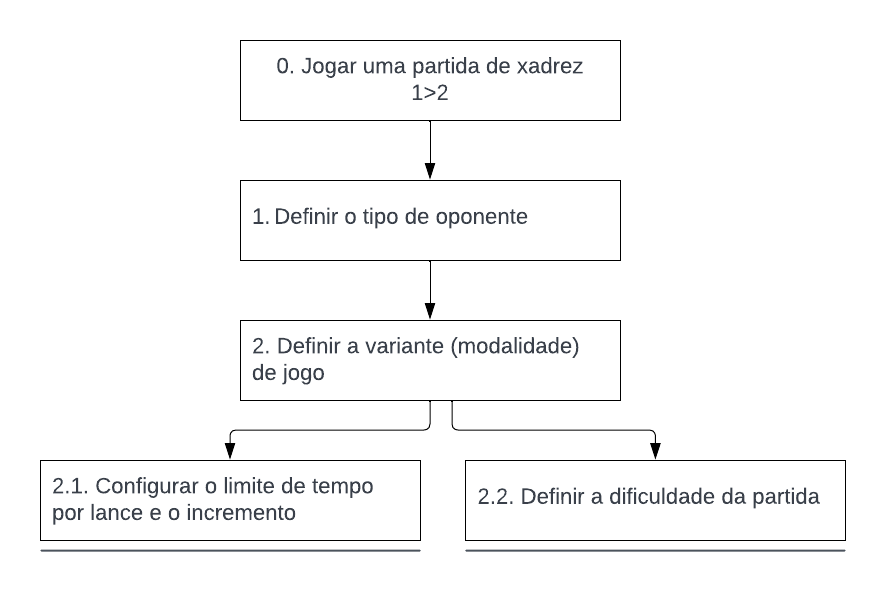
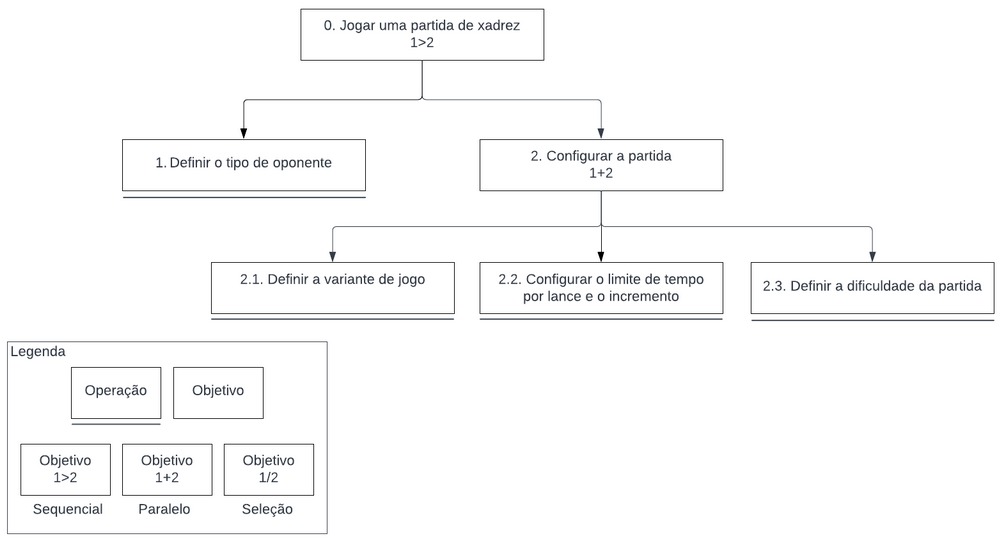
feat: #24 análise de tarefas

diff --git a/docs/analise_requisitos/analise_tarefas.md b/docs/analise_requisitos/analise_tarefas.md
@@ -8,7 +8,7 @@ Essa atividade pode ser realizada durante qualquer uma das três etapas principa
 
 A análise parte de um conjunto de objetivos, em termos psicológicos, das pessoas. Para cada objetivo elabora-se uma lista das ações realizadas, por meio do sistema, para alcançar esse objetivo. De acordo com os estudos de Diaper, a análise de tarefas é capaz de fornecer apenas uma simulação das verdadeiras tarefas de interesse, já que existe uma infinidade de tarefas que podem ser realizadas por diferentes pessoas e apenas uma pequena porção do trabalho pode ser observada. Um insumo importante da análise de tarefas é a observação do **desempenho**, e seus resultados devem ser comparados com os que foram obtidos por meio de entrevistas, questionários e documentação.
 
-Com o intuito de explorar diferentes técnicas, foram avaliadas as tarefas de "jogar uma partida de xadrez", "resolver um quebra cabeça" e "aprender a jogar xadrez" por meio de três metodologias diferentes, a saber: Análise Hierárquica de Tarefas (HTA), GOMS (Goals, Operators, Methods and Selection Rules) e ConcurTaskTrees (CTT).
+Com o intuito de explorar diferentes técnicas, foram avaliadas as tarefas de "jogar uma partida de xadrez" e "aprender a jogar xadrez" por meio de duas metodologias diferentes, a saber: Análise Hierárquica de Tarefas (HTA) e GOMS (Goals, Operators, Methods and Selection Rules).
 
 ## Análise Hierárquica de Tarefas (HTA)
 
@@ -41,22 +41,40 @@ A tarefa "jogar uma partida de xadrez" é a principal tarefa do sistema, já que
 
 | Objetivos/Operações | Problemas e recomendações |
 | - | - |
-| 0. Jogar uma partida de xadrez 1 > 2 | **input**: acesso ao menu "iniciar partida" na tela inicial; <br/> **feedback**: tela de jogo, com oponente e informações sobre a partida; <br/> **plano**: definir o tipo de oponente (computador, amigo ou aleatório) e depois configurar a partida; <br/> **recomendação**: permitir que o usuário inicie um jogo a partir da tela inicial. |
+| 0. Jogar uma partida de xadrez <br/>(1 > 2) | **input**: acesso ao menu "iniciar partida" na tela inicial; <br/> **feedback**: tela de jogo, com oponente e informações sobre a partida; <br/> **plano**: definir o tipo de oponente (computador, amigo ou aleatório) e depois configurar a partida; <br/> **recomendação**: permitir que o usuário inicie um jogo a partir da tela inicial. |
 | 1. Definir o tipo de oponente | |
-| 2. Configurar a partida 1+2 | **plano**: definir a variante de xadrez, os tempos e incrementos para cada lance e o nível de dificuldade (em caso de partida contra o computador) | |
-| 2.1 Definir a variante de xadrez 1+2 | |
+| 2. Configurar a partida (1+2)  | **plano**: definir a variante de xadrez, os tempos e incrementos para cada lance e o nível de dificuldade (em caso de partida contra o computador) | |
+| 2.1 Definir a variante de xadrez  | |
 | 2.2 Definir o tempo e incremento para cada lance | |
-| 2.3 Definir o nível de dificuldade 1/2 | **plano**: informar nível de dificuldade apenas para partidas contra o computador |
+| 2.3 Definir o nível de dificuldade   |  |
+<div style="text-align: center">
+<p> Tabela 1: Análise Hierárquica de Tarefas para o objetivo "jogar uma partida de xadrez" <br/>(Fonte: autor, 2022).</p>
+</div>
 
 ![Diagrama da Análise Hierárquica de Tarefas para o objetivo "jogar uma partida de xadrez"](imgs/hta-jogar-partida.png)
 
 <div style="text-align: center">
-<p> Figura 2: Diagrama da Análise Hierárquica de Tarefas para o objetivo "jogar uma partida de xadrez" (Fonte: autor, 2022).</p>
+<p> Figura 2: Diagrama da Análise Hierárquica de Tarefas para o objetivo "jogar uma partida de xadrez" <br/> (Fonte: autor, 2022).</p>
 </div>
 
-<!-- ## GOMS -->
+## Objetivos, Operadores, Métodos e Regras de Seleção (GOMS)
 
-<!-- ## ConcurTaskTrees (CTT) -->
+De acordo com Barbosa et al [1], o conjunto de modelos GOMS (_Goals, Operators, Methods and Selection Rules_ - Objetivos, Operadores, Métodos e Regras de Seleção), visa analisar o desempenho de usuários competentes de sistemas computacionais realizando tarefas dentro de sua competência e sem cometer erros. Compõem a família de modelos GOMS algumas técnicas, dentre as quais a o modelo CMN-GOMS foi selecionado para a análise da tarefa aprender a jogar xadrez. Esse método representa as tarefas por meio de uma linguagem de pseudocódigo, indicando a ordem sequencial dos objetivos. Esse modelo visa prever a sequência dos operadores e o tempo de execução desempenhado em uma tarefa.
+
+### Análise da tarefa: aprender a jogar xadrez
+
+A modelo GOMS foi utilizado para analisar a tarefa "aprender a jogar xadrez", sendo o escopo de avaliação a situação em que um usuário experiente com a plataforma deseja aprender os conceitos iniciais de xadrez.
+
+GOAL 0: aprender a jogar xadrez
+<p style="padding-left: 1vw">GOAL 1: encontrar a seção de estudo da plataforma</p>
+<p style="padding-left: 3vw">OP. 1.1: posicionar o cursor do mouse sobre o menu aprender</p>
+<p style="padding-left: 3vw">OP. 1.2: clicar no menu "básicos do xadrez" </p>
+<p style="padding-left: 1vw">GOAL 2: selecionar o assunto para estudar </p>
+<p style="padding-left: 3vw">OP. 2.1: girar a roda do mouse para a modalidade desejada </p>
+<p style="padding-left: 3vw">OP. 2.2: clicar na opção desejada </p>
+<p style="padding-left: 1vw">GOAL 3: estudar o assunto escolhido </p>
+<p style="padding-left: 3vw">OP. 3.1: fazer a leitura do tutorial à direita da página </p>
+<p style="padding-left: 3vw">OP. 3.2: movimentar as peças no tabuleiro clicando nelas e nas posições de destino </p>
 
 ## Bibliografia
 
